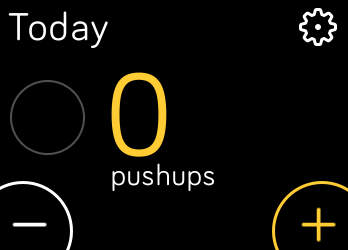
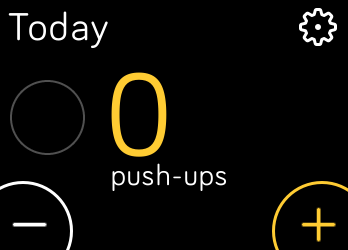
pushups -> push-ups

Changed region(s): [[0.4885, 0.672, 0.6609, 0.756]]

diff --git a/app/view.js b/app/view.js
@@ -22,7 +22,7 @@ export function render(pushups) {
     imgGoalComplete.style.display =
         pushups.today.goalMet ? 'inline' : 'none';
 
-    goalText.text = `Goal: ${pushups.settings.goal} pushups`;
+    goalText.text = `Goal: ${pushups.settings.goal} push-ups`;
 }
 
 export function onAddClickLongPress(onClick, onLongPress) {

diff --git a/README.md b/README.md
@@ -1,8 +1,8 @@
-# Pushups
+# Push-ups
 
-Fitbit OS app to track daily pushups
+Fitbit OS app to track daily push-ups
 
-![Pushups](https://github.com/mmallett/pushups/blob/master/screenshots/pushups_today.gif?raw=true)
+![Push-ups](https://github.com/mmallett/pushups/blob/master/screenshots/pushups_today.gif?raw=true)
 
 ## Run
 
